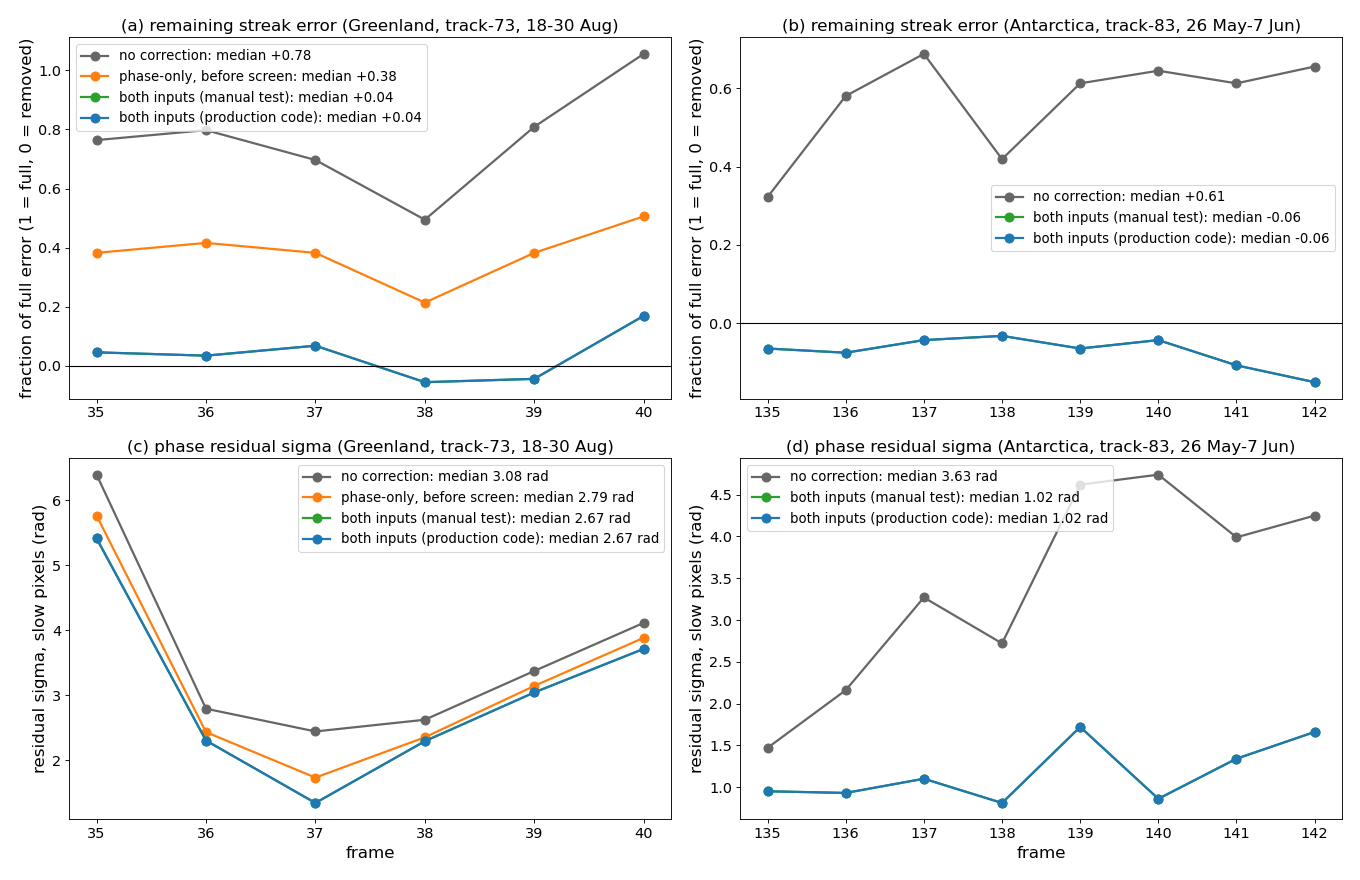
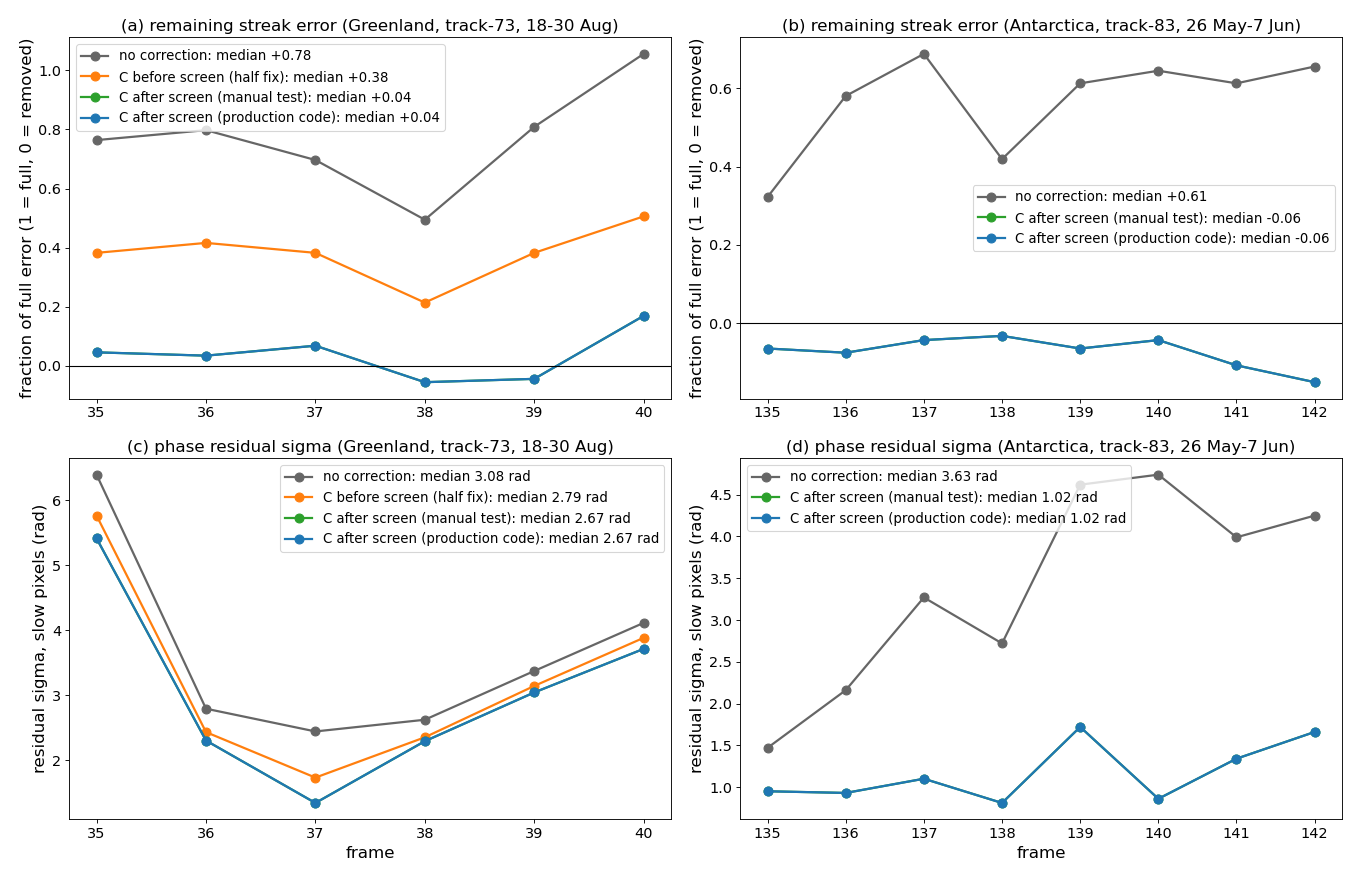
carrierRangeCoupling: say where C is applied instead of 'both inputs'
Section 2 now tracks the carrier term through phase, offsets, screen and corrected phase for each
placement (after the screen = full fix; phase-only before = half; phase +C / offsets -C before =
production, identical to after for the phase). Section 4 tables, Figure 2 legend and the summary
use the same wording; the manual test vs production difference is the kappa*s range term.

diff --git a/Documents/carrierRangeCoupling.md b/Documents/carrierRangeCoupling.md
@@ -23,9 +23,11 @@ The range offsets carry a matching error of the opposite sign: the same ionosphe
 in range, again because of the squint. Inside GrIMP's estimate the two errors cancel, so the estimate is clean but the
 corrected phase keeps the whole error, and the range offsets keep theirs.
 
-The correction must therefore be applied to both inputs. Done that way, it removes the streak error from the phase
-completely, leaves GrIMP's ionosphere estimate (and the azimuth correction derived from it) unchanged, and also corrects
-the range offsets. On a strong-ionosphere Antarctic pair the phase-baseline residual fell by more than half and the
+The fix is therefore to add the carrier correction to the phase *after* the ionosphere is estimated, and to remove the
+small range shift from the range offsets. Adding it to the phase *before* the estimate, as a first version did, removes
+only half the error, because the estimate then absorbs the other half. Done after, it removes the streak error from the
+phase completely, leaves GrIMP's ionosphere estimate (and the azimuth correction derived from it) unchanged, and also
+corrects the range offsets. On a strong-ionosphere Antarctic pair the phase-baseline residual fell by more than half and the
 range-baseline residual by a quarter.
 
 ---
@@ -64,16 +66,21 @@ squinted range migration). Real ice motion moves the ground and has neither term
 error, the corrected phase $`\phi-\text{screen}`$ keeps all of it, and the range offsets carry a $`\kappa s`$ error of
 their own (4–10 cm for 2–6 m shifts).
 
-| Where the correction goes | Phase after correction | Screen; range and azimuth ionosphere corrections |
-|---|---|---|
-| nowhere (production until 2026-10) | full error | clean |
-| phase only, before the screen | **half** the error | pick up $`+C/2`$ |
-| phase $`+C`$ **and** offset phase $`-C`$, before the screen | error removed | unchanged (clean) |
+The corrected phase is $`\phi - \text{screen}`$ with $`\text{screen} = (\phi + \phi_{\text{off}})/2`$ (before
+filling and smoothing). Following only the carrier term through each way of applying the correction:
 
-Adding $`C`$ to the phase and $`-C`$ to the offset phase cancels in the screen, so for the phase this is identical to
-adding $`C`$ after the screen, which is what the after-the-fact correction in
-[carrierCorrectionFrames.md](carrierCorrectionFrames.md) did. The coupling only matters for correcting the range
-offsets themselves.
+| Where $`C`$ is applied | Phase into the screen | Offsets into the screen | Screen | Corrected phase |
+|---|---|---|---|---|
+| nowhere (production until 2026-10) | $`-C`$ | $`+C`$ | 0 | $`-C`$, the full error |
+| to the phase, after the screen | $`-C`$ | $`+C`$ | 0 | $`-C + C = 0`$ |
+| to the phase, before the screen; offsets left alone | 0 | $`+C`$ | $`+C/2`$ | $`-C/2`$, **half** the error |
+| to the phase and taken out of the offsets, before the screen | 0 | 0 | 0 | 0 |
+
+The last row is how the production code applies it; for the phase it is identical to the second row, which is also what
+the after-the-fact correction in [carrierCorrectionFrames.md](carrierCorrectionFrames.md) did. In both, the screen and
+the range and azimuth ionosphere corrections derived from it are unchanged. Separately, the range offsets carry the
+$`\kappa s`$ shift themselves, so the range ionosphere correction gets that term added (§5); the "before, phase only"
+row instead puts $`+C/2`$ into the screen and every correction derived from it.
 
 ### Physical picture: why a Doppler shift couples into range and real motion does not
 
@@ -152,25 +159,26 @@ Merged-frame baseline fits (σ of the fit residuals):
 | Greenland 5535_0000 | Phase baseline | Range, with ionosphere correction | Azimuth, with azimuth ionosphere correction |
 |---|---|---|---|
 | no correction | 8.49 rad | 0.1157 m | 2.621 m |
-| phase only, before the screen | 8.11 | 0.1116 | 2.686 |
-| both inputs (manual test) | 7.83 | 0.1169 | 2.620 |
-| **both inputs, production code** | **7.83** | **0.1142** | **2.620** |
+| $`C`$ added to the phase before the screen (half fix) | 8.11 | 0.1116 | 2.686 |
+| $`C`$ added after the screen; range correction unchanged (manual test) | 7.83 | 0.1169 | 2.620 |
+| **$`C`$ added after the screen, plus $`\kappa s`$ in the range correction (production code)** | **7.83** | **0.1142** | **2.620** |
 
 | Antarctica 4334_0000 | Phase baseline | Range, with ionosphere correction | Azimuth, with azimuth ionosphere correction |
 |---|---|---|---|
 | no correction | 4.55 rad | 0.1621 m | 2.369 m |
-| phase only, before the screen | 2.77 | 0.1247 | 2.574 |
-| both inputs (manual test) | 1.98 | 0.1621 | 2.368 |
-| **both inputs, production code** | **1.98 (−57%)** | **0.1132 (−30%)** | **2.360** |
+| $`C`$ added to the phase before the screen (half fix) | 2.77 | 0.1247 | 2.574 |
+| $`C`$ added after the screen; range correction unchanged (manual test) | 1.98 | 0.1621 | 2.368 |
+| **$`C`$ added after the screen, plus $`\kappa s`$ in the range correction (production code)** | **1.98 (−57%)** | **0.1132 (−30%)** | **2.360** |
 
 Per frame (Figure 2): the remaining streak error falls from 0.78 to 0.04 (Greenland) and from 0.61 to −0.06
-(Antarctica); the median residual σ from 3.08 to 2.67 rad and from 3.63 to 1.02 rad. "Phase only, before the screen"
+(Antarctica); the median residual σ from 3.08 to 2.67 rad and from 3.63 to 1.02 rad. The "before the screen" variant
 is the first production version, switched on and then paused on 2026-10-17: it removes about half the error and puts
-the other half into the screen. The manual test adds the range-coupling term only on the merged grid, which is why the
-production code's range result is better.
+the other half into the screen. The manual test corrected only the phase, so its range ionosphere correction, and hence
+its range fit, is the same as with no correction; the production code also adds $`\kappa s`$ to the range correction,
+which is where its range improvement comes from.
 
-**Implication:** correcting both inputs removes the streak error completely in both regions, and the production code
-reproduces the manual test. The merged-frame phase-baseline residual falls by more than half (4.55 to 1.98 rad) in Antarctica, where the
+**Implication:** adding $`C`$ after the screen removes the streak error completely in both regions, and the production
+code reproduces the manual test for the phase. The merged-frame phase-baseline residual falls by more than half (4.55 to 1.98 rad) in Antarctica, where the
 ionosphere is strong; in the Greenland frame other errors dominate the merged residual, so the gain there shows mainly
 per frame. Removing $`\kappa s`$ from the range offsets lowers the range-baseline residual. The azimuth fit is
 unchanged, because the screen it is derived from is unchanged.
@@ -182,7 +190,7 @@ unchanged, because the screen it is derived from is unchanged.
   for processors before CRID 5032 a frame-wide test also removes the −70 m / −200 m patches of some 0.25.8 products.
   About 1–6 s per frame.
 - `estimateIonosphere --carrierCorrection --carrierOffsets`: phase $`+C`$ and offset phase $`-C`$ before the screen is
-  estimated; writes `<stem>.carrierCorrection.tif` (phase grid) and `<stem>.carrierRangeCoupling.offset.tif` (the
+  estimated, which leaves the screen unchanged and is therefore the same as adding $`C`$ to the phase after it; writes `<stem>.carrierCorrection.tif` (phase grid) and `<stem>.carrierRangeCoupling.offset.tif` (the
   $`\kappa s`$ term in SLC pixels, offset grid), and folds the latter into the range-offset ionosphere correction that
   every consumer already adds.
 - `SetupNISAR`: passes both flags (or `carrierCorrection: true` and `carrierOffsets: true` in project.yaml); mosaics
